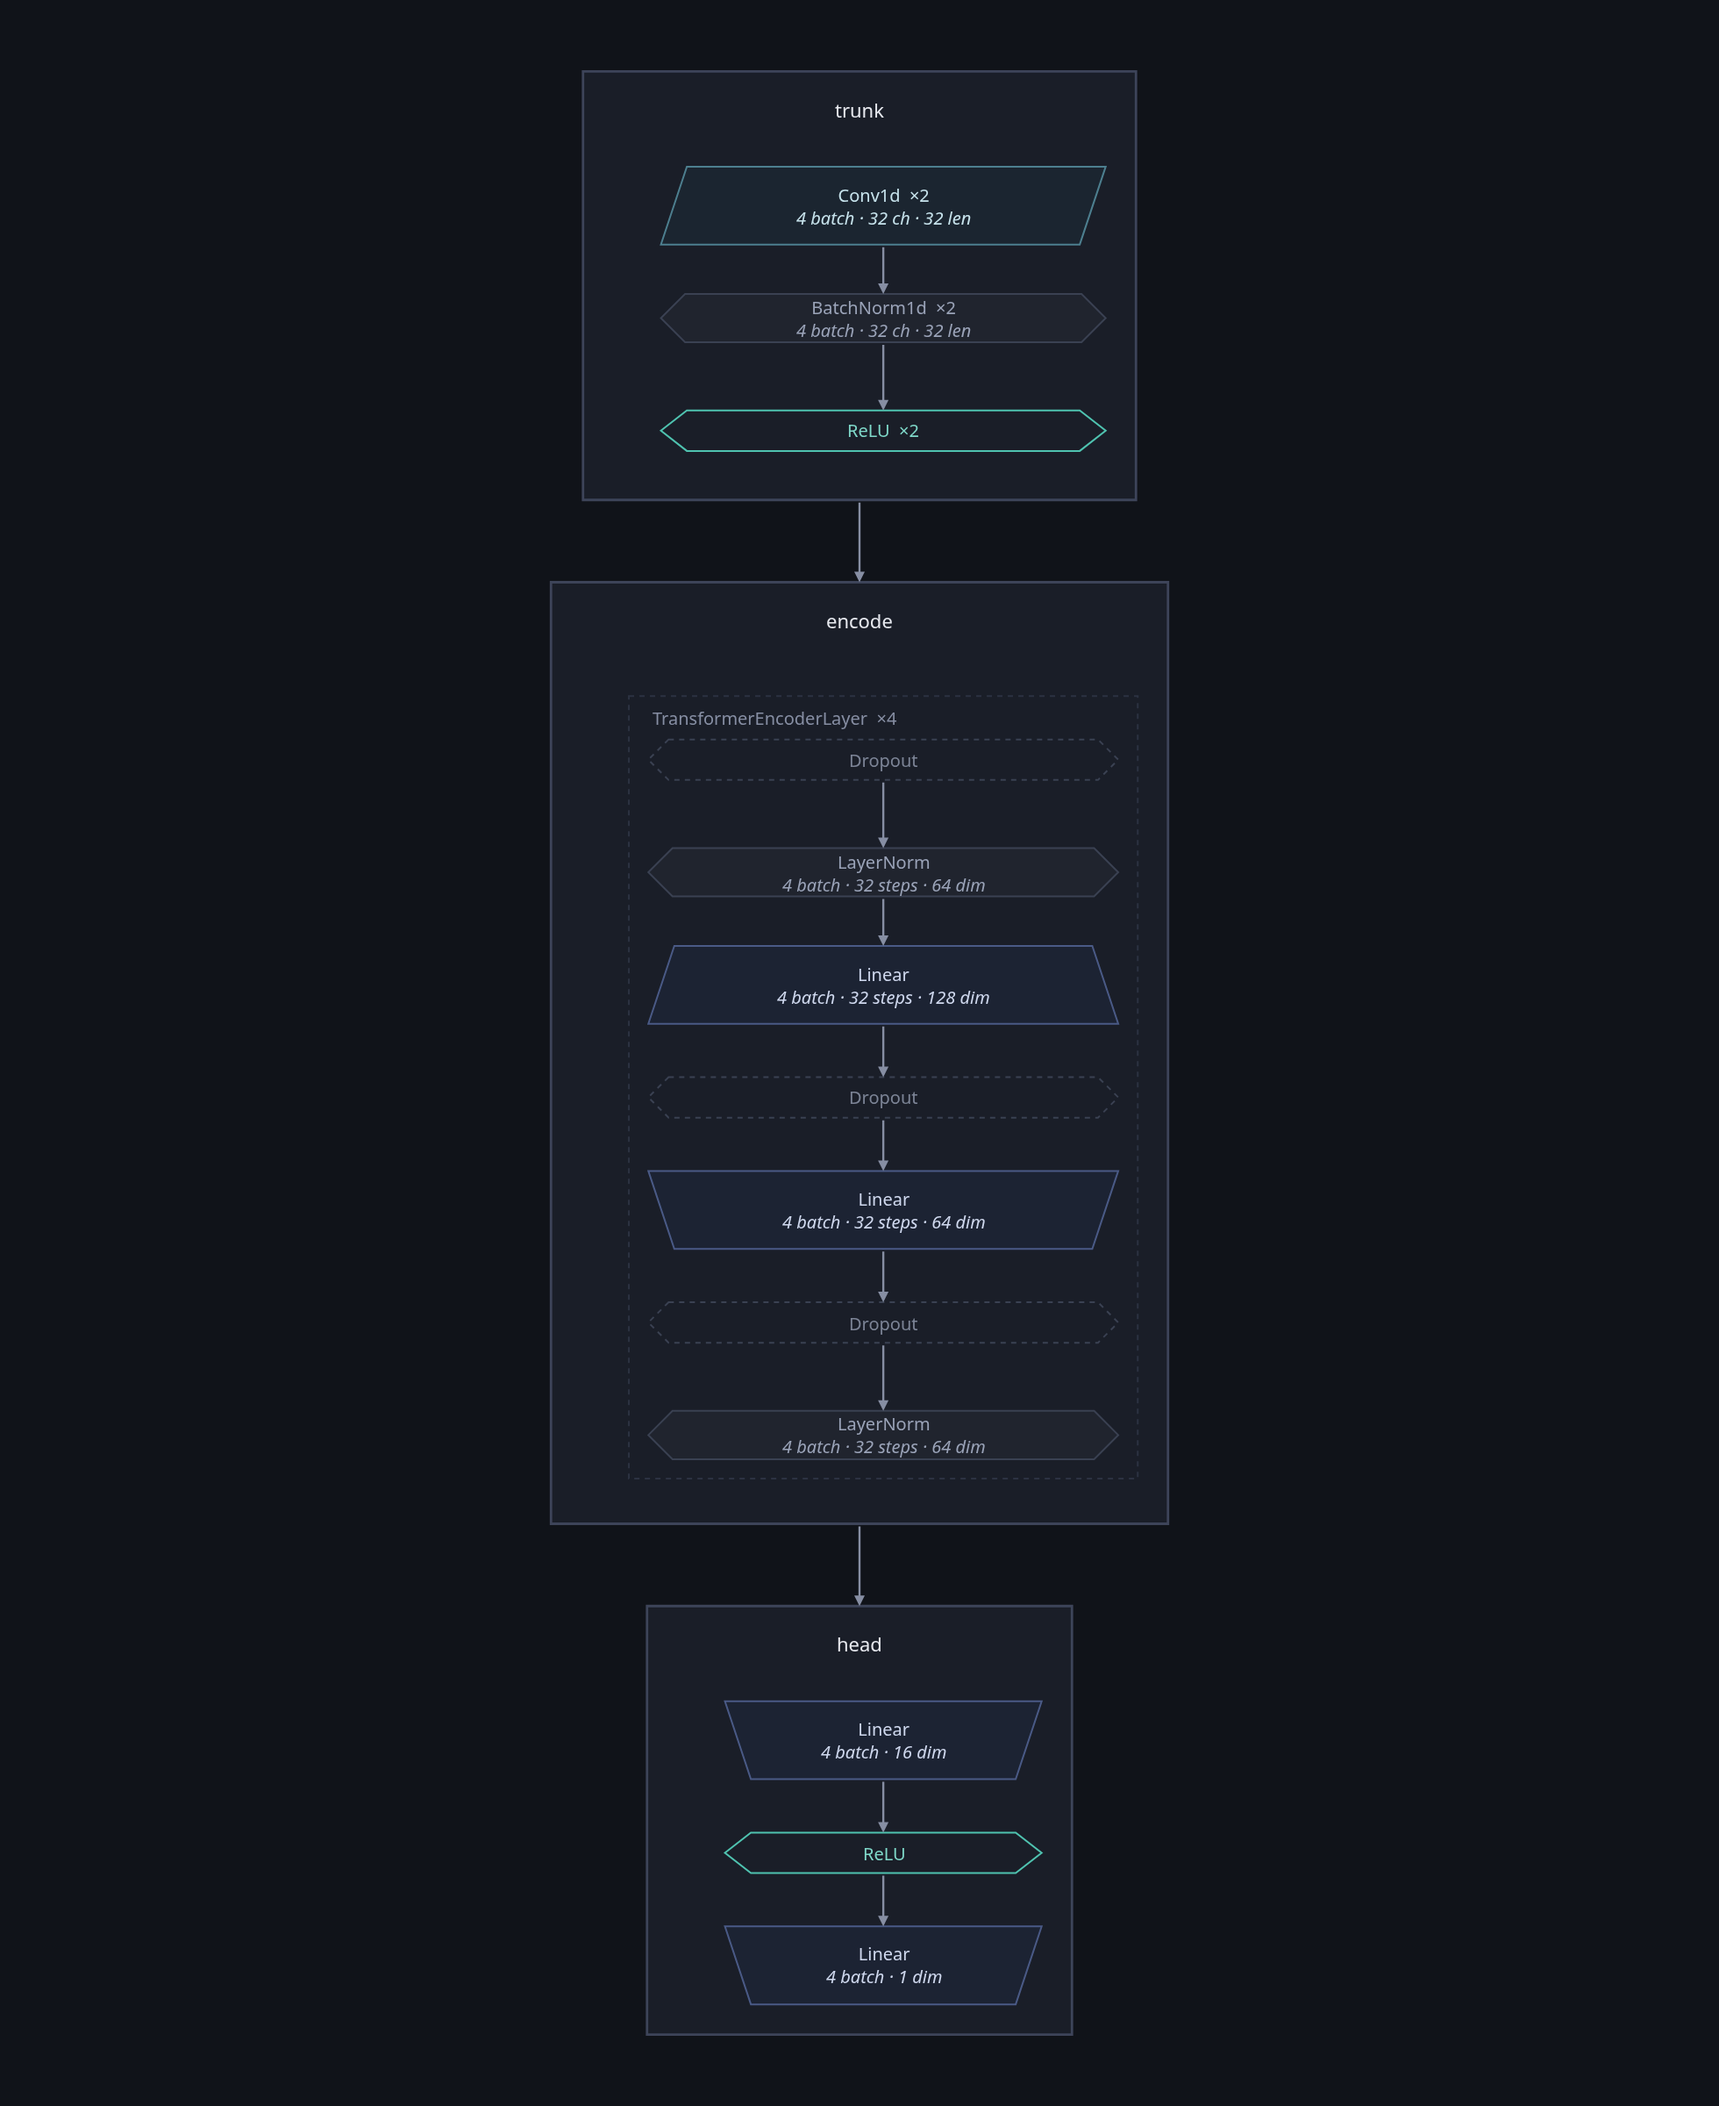
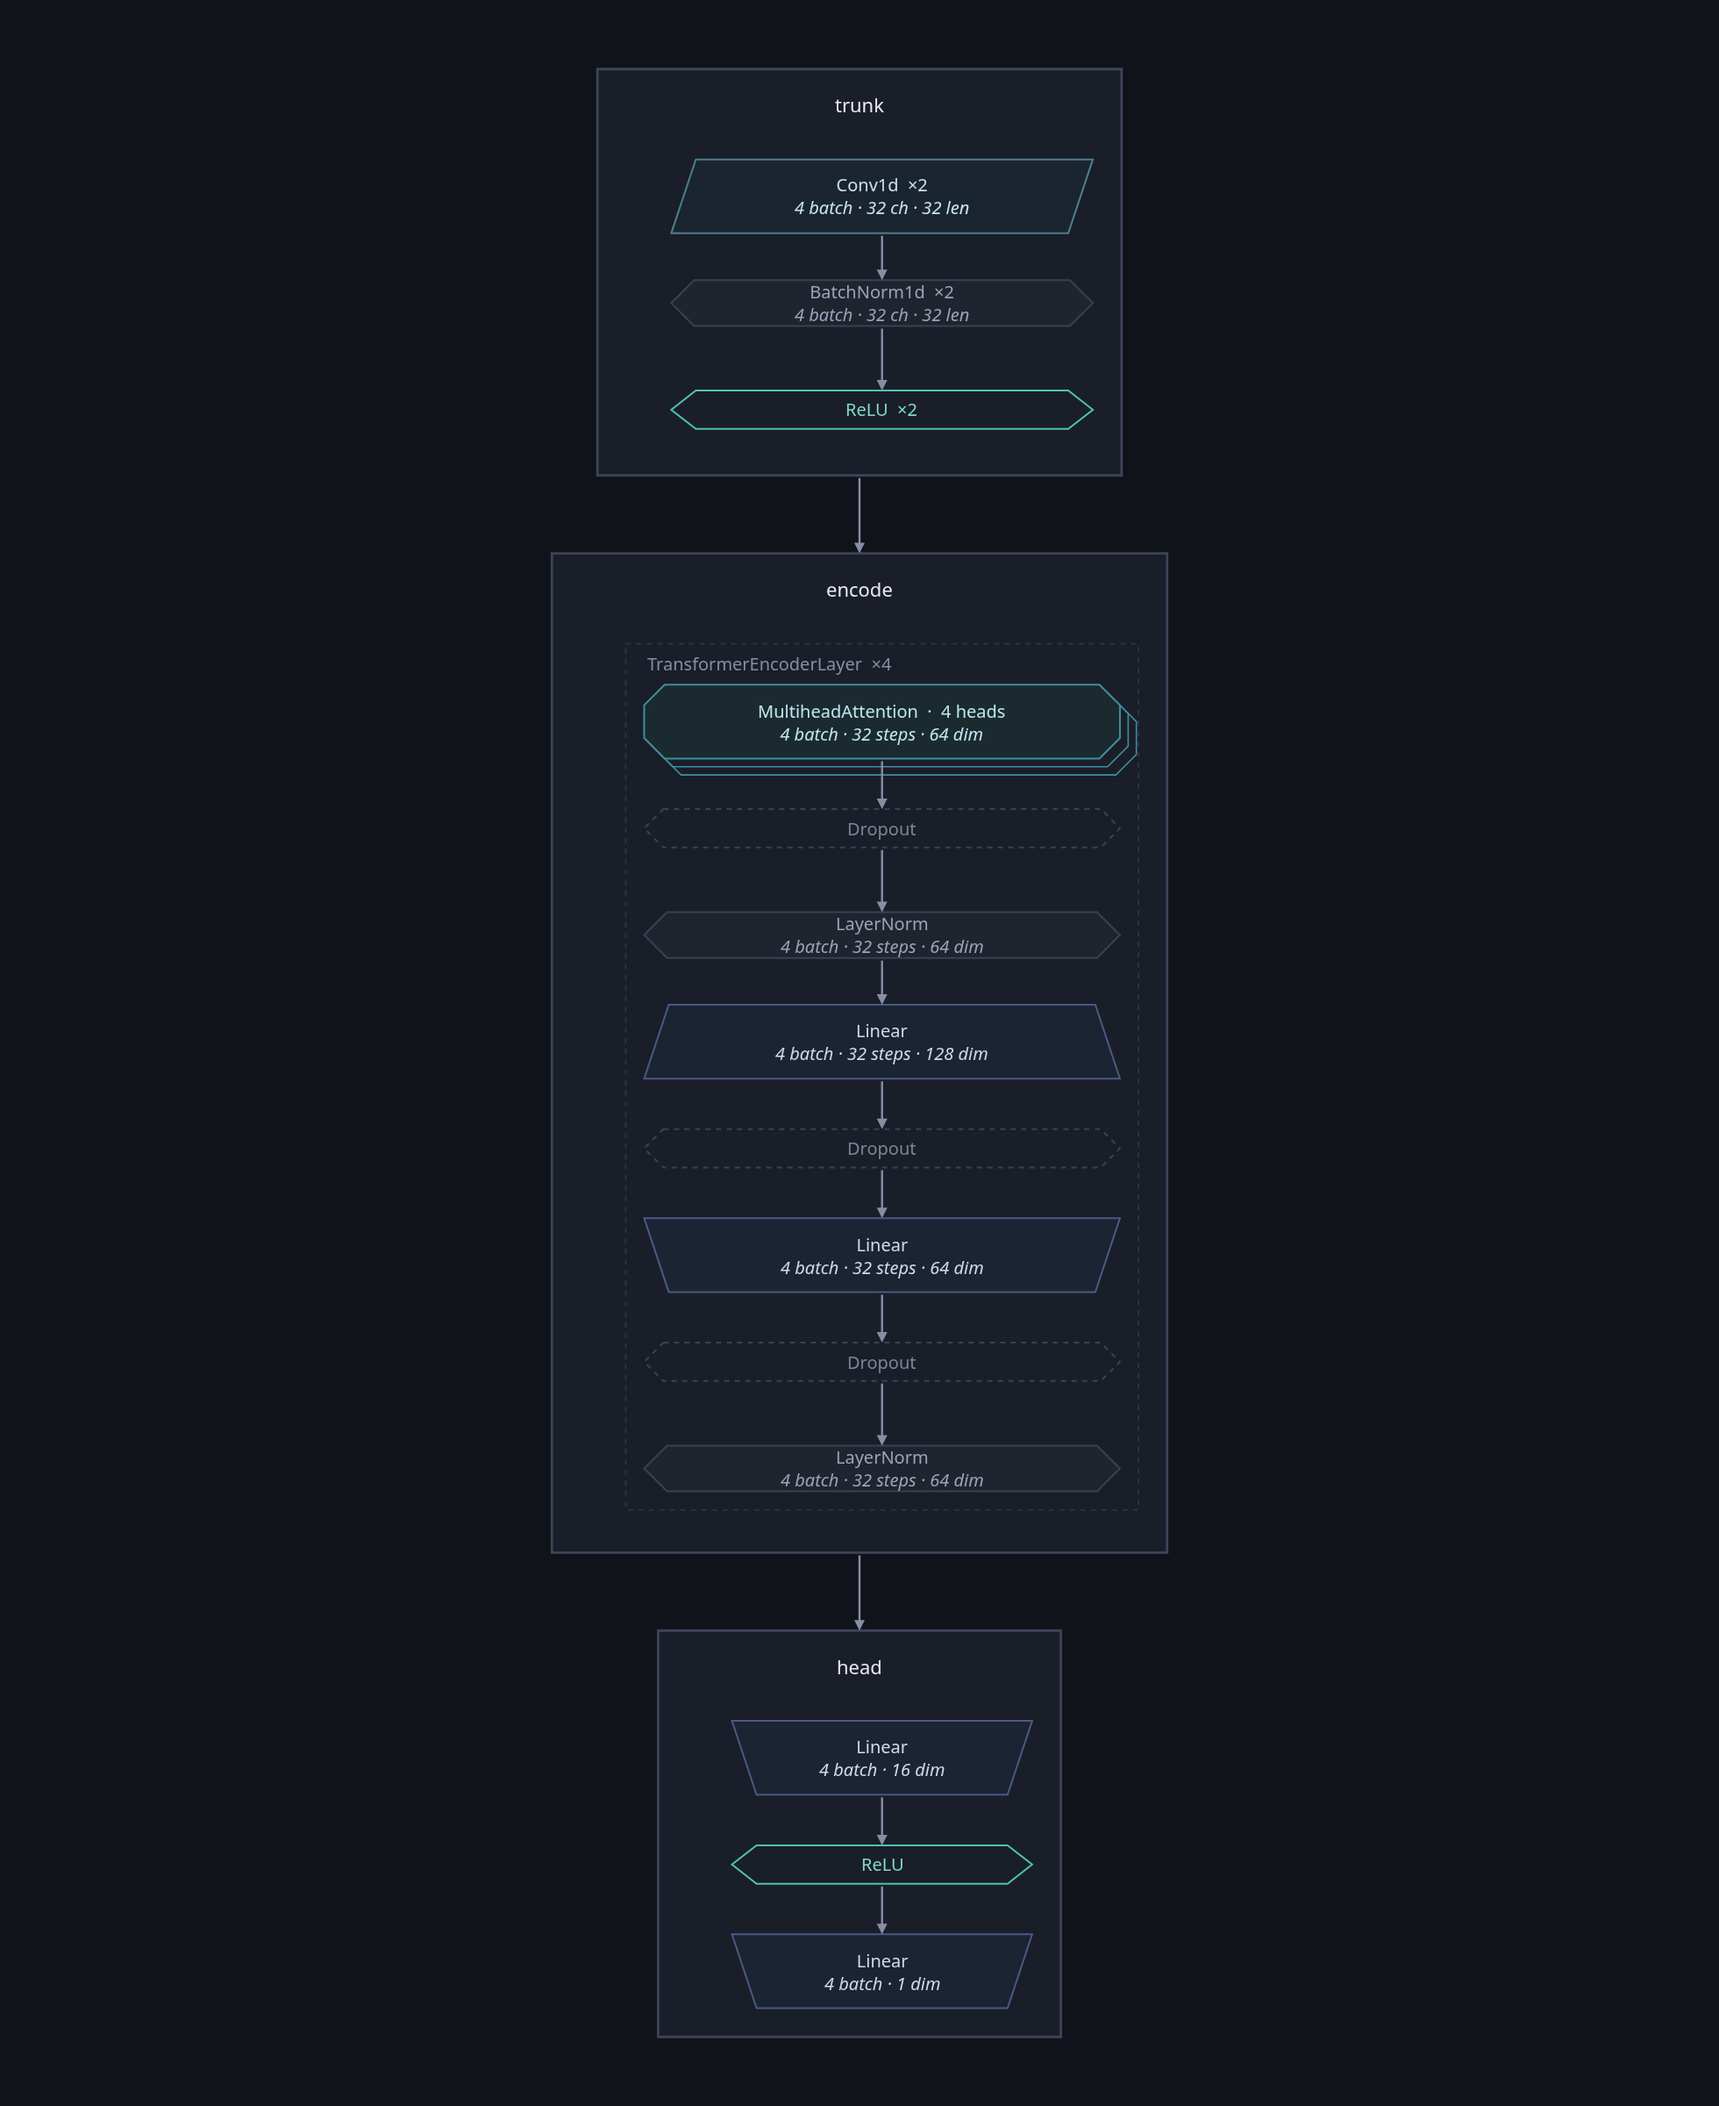
fix: opening an attention block deleted it, and the caution that said so had the wrong diagnosis
`depth=` refines a composite, and asked past an `nn.MultiheadAttention` it
removed one instead. That block's only child is `out_proj`, and torch never
calls it: attention runs out of `F.multi_head_attention_forward`, handed the
four tensors, and the module is only where the weights are kept. So no hook
fired, no box was drawn, and `depth=2` — the depth the published figure was
generated at — showed the encoder block's norms and its feed-forward and no
attention at all. A transformer figure with no transformer in it.

The documented `:::caution` blamed something else: that the self-attention
inside torch's *fused* `TransformerEncoderLayer` is not surfaced at any depth.
Measured, that is false, and the way it is false is worth keeping — torch leaves
the fast path the moment any hook is attached anywhere under the layer
(`why_not_sparsity_fast_path = "forward pre-/hooks are attached"`), and
`architecture` attaches one to everything it draws. The attention was there at
`depth=1` all along.

So `depth` gained a `FLOOR`: a `MultiheadAttention` is whole however deep it was
asked for, because refining what has no parts that run has to answer the thing
itself rather than nothing. Measured and not believed — one test hooks
`out_proj` and watches it never fire, so whoever makes torch call it can delete
the rule, and another asks for the block at `depth=1,2,3` and gets an attention
with its lanes still on it.
[…]

diff --git a/soma-python/tests/test_health.py b/soma-python/tests/test_health.py
@@ -398,6 +398,58 @@ def test_a_composite_everybody_recognises_is_one_box():
     assert len(_worth_drawing(block, depth=1)) > 1, "and `depth=` opens it"
 
 
+def test_torch_never_calls_the_module_inside_an_attention_block():
+    # The measurement the `FLOOR` rests on, rather than the belief. An
+    # attention block's only child is `out_proj`, and it is never called: the
+    # weights go to `F.multi_head_attention_forward` and the module is only
+    # where they are kept. Whoever raises this by making torch call it can
+    # delete the floor.
+    att = torch.nn.MultiheadAttention(16, 4, batch_first=True)
+    fired = []
+    hook = att.out_proj.register_forward_hook(lambda *_: fired.append(True))
+
+    try:
+        with torch.no_grad():
+            att(*(torch.randn(2, 5, 16),) * 3)
+    finally:
+        hook.remove()
+
+    assert not fired, "torch called `out_proj`, so there is something to open to"
+
+
+def test_opening_an_encoder_block_shows_its_attention_at_every_depth():
+    # Opening a composite has to **refine** it. Asked past the attention it
+    # deleted it instead — `out_proj` is what a module walk finds under one and
+    # nothing runs it, so `depth=2` drew the block's norms and its feed-forward
+    # and no attention at all, which is a transformer figure with no transformer
+    # in it.
+    pytest.importorskip("plotly")
+
+    class Stack(Node):
+        def __init__(self):
+            self.body = torch.nn.TransformerEncoder(
+                torch.nn.TransformerEncoderLayer(8, 2, 16, batch_first=True), num_layers=2
+            )
+
+        def forward(self, said, ctx):
+            return Opaque(self.body(said))
+
+        def parameters(self):
+            return list(self.body.parameters())
+
+    g = Graph.somatize(Stack().named("text"))
+    x = Opaque(torch.randn(4, 5, 8))
+
+    for depth in (1, 2, 3):
+        (attention,) = [
+            one for one in architecture(g, x, depth=depth)["text"].layers
+            if one.kind == "attention"
+        ]
+        # And it says how many lanes it runs at once, which is what puts the
+        # plates behind it rather than four boxes nobody wired.
+        assert attention.parallel == 2, depth
+
+
 def test_blocks_that_are_the_same_block_collapse_to_one_and_a_count():
     # Twelve identical layers drawn twelve times is a figure nobody reads.
     pytest.importorskip("plotly")

diff --git a/soma-python/python/somatize/torch/_inside.py b/soma-python/python/somatize/torch/_inside.py
@@ -703,13 +703,23 @@ def _watch(
 #: fourteen leaves it is fourteen things and a diagram nobody looks at twice.
 WHOLE = ("attention", "recurrent")
 
+#: Composites `depth` does not open, because there is nothing inside them to
+#: open **to**. `MultiheadAttention` runs out of `F.multi_head_attention_forward`,
+#: which is handed the four tensors and never calls `out_proj` — its only child.
+#: So opening one does not refine it, it **deletes** it: `depth=2` used to draw
+#: the encoder block's norms and its feed-forward and no attention at all.
+#: Measured and not believed — a test hooks `out_proj` and watches it never fire.
+FLOOR = ("MultiheadAttention",)
+
 
 def _worth_drawing(module: Any, depth: int = 0) -> list[tuple[str, Any]]:
     """Which of a module's parts get a box, as `[(path, module)]`.
 
     One rule: **draw the smallest thing that is still a thing**. A composite
     everybody recognises is one, and is not opened, because reading it as its
-    parts is reading it as something nobody named. `depth` opens them further.
+    parts is reading it as something nobody named. `depth` opens them further,
+    down to a `FLOOR` — where the parts are not things, but tensors a functional
+    was handed.
     """
     said: list[tuple[str, Any]] = []
     closed: list[str] = []
@@ -726,7 +736,10 @@ def _worth_drawing(module: Any, depth: int = 0) -> list[tuple[str, Any]]:
         # `TransformerEncoder`, and asking for one level of detail should not
         # have to know that.
         under = sum(1 for above in opened if path.startswith(above))
-        whole = composite and under >= depth
+        # And a floor is whole however deep it was asked for: `depth` refines,
+        # and asking to refine what has no parts that run has to answer the
+        # thing itself rather than nothing.
+        whole = composite and (under >= depth or type(one).__name__ in FLOOR)
         if composite:
             opened.append(f"{path}." if path else "")
         if whole:

diff --git a/docs/scripts/figures.py b/docs/scripts/figures.py
@@ -414,12 +414,10 @@ def an_architecture(into: dict[str, bytes]) -> None:
     deeper = architecture(g, example, depth=2)
     drawn(g.figure(inside=deeper), "architecture-opened", into, width=980, height=1200)
 
-    # The plates, which need an attention written out rather than torch's fused
-    # `TransformerEncoderLayer`: the self-attention inside that one is not
-    # surfaced by the trace at any depth, so the figure above has the block's
-    # norms and feed-forward and no attention at all. Measured, not assumed —
-    # `kind_of(nn.MultiheadAttention(...))` answers `attention`, and an explicit
-    # one draws with its heads behind it.
+    # An attention block written out rather than torch's, which is where the
+    # **residual** shows: `y + x` is not a module, so a hand-written block draws
+    # the skip that the encoder layer keeps inside a `forward` nobody can see
+    # into. The plates behind the heads are on both figures.
     class Block(Node):
         def __init__(self):
             self.att = nn.MultiheadAttention(64, 4, batch_first=True)

diff --git a/docs/use-cases.md b/docs/use-cases.md
@@ -4394,6 +4394,29 @@ The plates are capped at two however many lanes there are, because eight plates
 are a smudge and what says *eight* is the word. They go **downwards**, since the
 first layer of a block has its `×N` immediately above it.
 
+### Opening a composite has to refine it, and once it deleted it
+
+`depth=` opened a `MultiheadAttention` into `out_proj`, which is its only child
+and is **never called**: torch runs attention out of
+`F.multi_head_attention_forward`, handed the four tensors, and the module is
+only where they are kept. So no hook fired, the box disappeared, and `depth=2`
+drew the encoder block's norms and its feed-forward and no attention at all —
+which is a transformer figure with no transformer in it.
+
+It was published as a `:::caution` saying the self-attention inside torch's
+*fused* `TransformerEncoderLayer` is not surfaced at any depth. That diagnosis
+was wrong, and the way it was wrong is worth keeping: torch bails out of that
+fused path the moment **any** hook is attached anywhere under the layer, and
+`architecture` attaches one to everything it draws — so the fast path was never
+taken here and `depth=1` had the attention all along. What the caution really
+described was `depth=2`, the setting the figure was generated at.
+
+So `depth` gained a **floor**: `MultiheadAttention` is whole however deep it was
+asked for, because refining what has no parts that run has to answer the thing
+itself rather than nothing. Measured and not believed — the test hooks
+`out_proj` and watches it never fire, so whoever makes torch call it can delete
+the rule.
+
 ### Why this was copied and not adopted
 
 `torchview` does both of these already: `expand_nested=True` puts an expanded
@@ -4425,6 +4448,10 @@ to be written.
 - [x] and a block that is one layer keeps its count inline
 - [x] **how many lanes a layer runs is read and never inferred**
 - [x] something that runs one lane says nothing about lanes
+- [x] **torch never calls the module inside an attention block**, which is the
+      measurement the floor rests on
+- [x] and opening an encoder block shows its attention at every depth, with its
+      lanes still on it
 
 ## CU23 — Workers and jobs, live
 

diff --git a/docs/src/content/docs/looking/the-graph-drawn.md b/docs/src/content/docs/looking/the-graph-drawn.md
@@ -128,13 +128,16 @@ each of them. That is the dashed frame: the count is said once and the block is
 said once. Four encoder layers written out would be eight boxes each saying
 `×4`, which is the count said eight times and the block said none.
 
-:::caution[One thing that figure is missing, and it is not the drawing]
-There is no attention in it. `architecture` traces an explicit
-`nn.MultiheadAttention` — `kind_of` answers `attention` for one — but the
-self-attention **inside torch's fused `nn.TransformerEncoderLayer`** is not
-surfaced at any `depth=`, so what you get is that block's norms and its
-feed-forward. Written out rather than fused, it draws:
-:::
+**And `depth=` has a floor.** It never opens an `nn.MultiheadAttention`, because
+there is nothing inside one to open **to**: torch runs it out of
+`F.multi_head_attention_forward`, which is handed four tensors and never calls
+`out_proj` — its only child. Opening it did not refine it, it **deleted** it,
+and `depth=2` used to draw the encoder block's norms and its feed-forward and
+no attention at all. The floor is measured rather than believed: a test hooks
+`out_proj` and watches it never fire, so whoever makes torch call it can delete
+the rule.
+
+Written out by hand rather than taken from torch, the same block draws:
 
 ![An attention block with its heads behind it](../../../assets/figures/architecture-attention.png)
 
